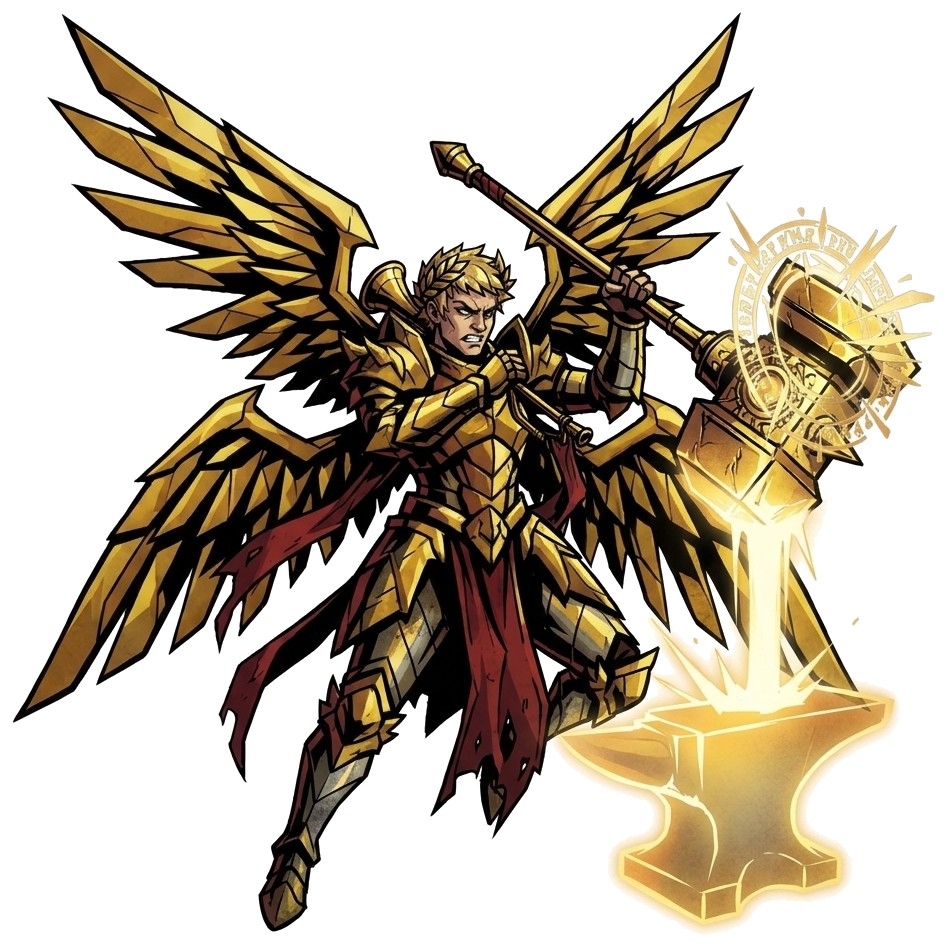
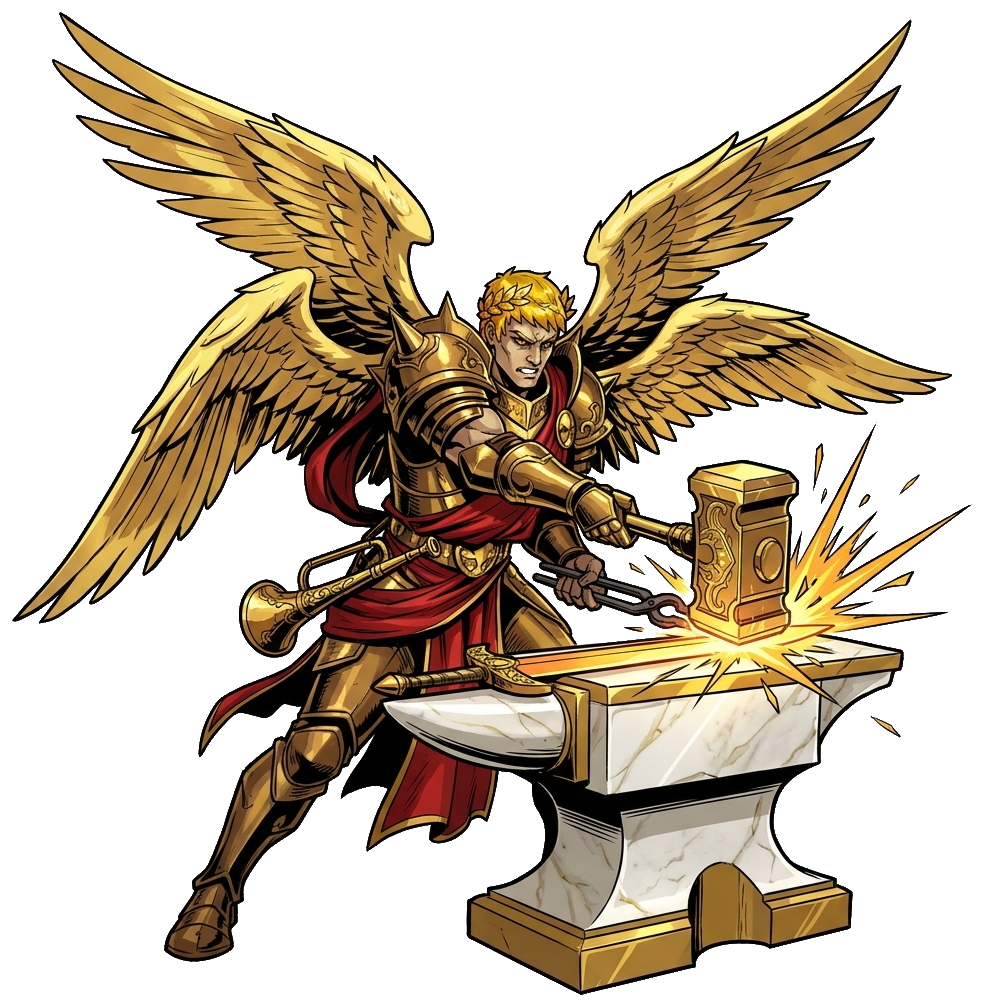
fix(art): regenerate gold_152_mestre_forja_celestial with natural blacksmith strike anatomy and trumpet at hip

diff --git a/src/components/CardView.tsx b/src/components/CardView.tsx
@@ -363,7 +363,7 @@ export const CardView: React.FC<CardViewProps> = ({
           <div className={`mtg-token-art aura-${displayCard.domain}`}>
             {!imgError && displayCard.imagePath ? (
               <img
-                src={`${displayCard.imagePath}?v=46`}
+                src={`${displayCard.imagePath}?v=47`}
                 alt={displayName}
                 className="mtg-token-img"
                 onError={() => setImgError(true)}
@@ -520,7 +520,7 @@ export const CardView: React.FC<CardViewProps> = ({
 
           {!imgError && displayCard.imagePath ? (
             <img
-              src={`${displayCard.imagePath}?v=46`}
+              src={`${displayCard.imagePath}?v=47`}
               alt={displayName}
               className="card-cutout-img"
               onError={() => setImgError(true)}

diff --git a/src/components/MythologyAtlasView.tsx b/src/components/MythologyAtlasView.tsx
@@ -342,7 +342,7 @@ export const MythologyAtlasView: React.FC<MythologyAtlasViewProps> = ({ onInspec
                         title={`Clique para inspecionar ${card.name}`}
                       >
                         <img
-                          src={`${card.imagePath}?v=19`}
+                          src={`${card.imagePath}?v=20`}
                           alt={card.name}
                           className="poem-card-medallion-img"
                           loading="lazy"
